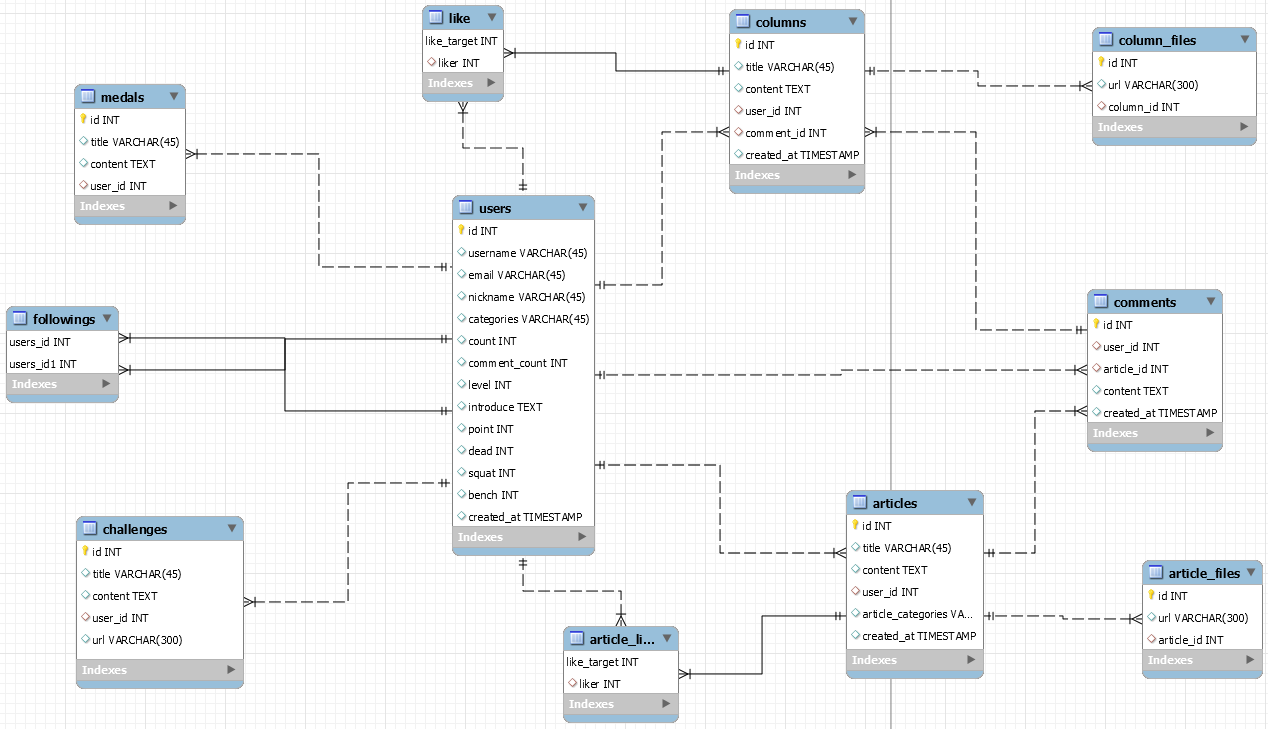
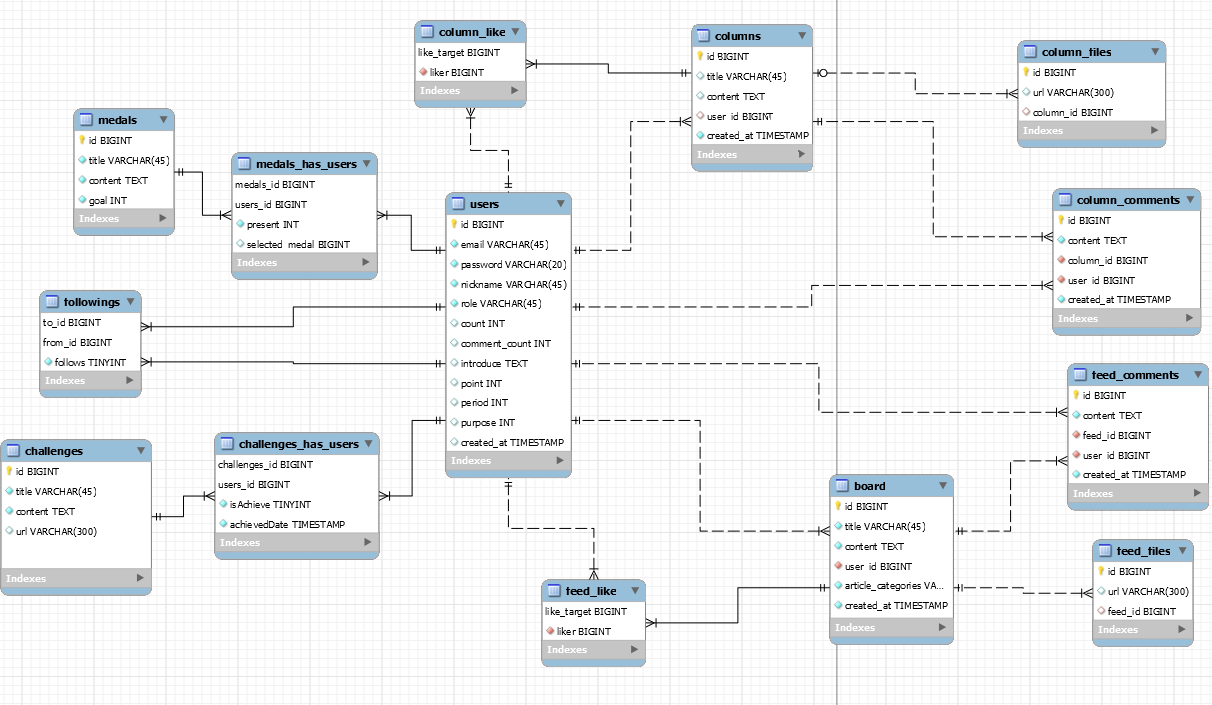
MOdify README

diff --git a/README.md b/README.md
@@ -48,7 +48,7 @@
 
 ## 📝 ERD & Component structure
 
-
+![](./images/README/002.png)
 
 
 
@@ -62,7 +62,9 @@
 
 ## 🔧 Features
 
-### 1.
+### 1. Login
+
+
 
 
 
@@ -106,8 +108,6 @@ AWS(EC2) 서버로 배포하였다.
         <li>E2C</li>
     </ul>
 </details>
-
-
 <details>
     <summary>ETC</summary>
     <ul>
@@ -119,8 +119,6 @@ AWS(EC2) 서버로 배포하였다.
         <li>Discord</li>
     </ul>
 </details>
-
-
 
 
 ### Contributor
